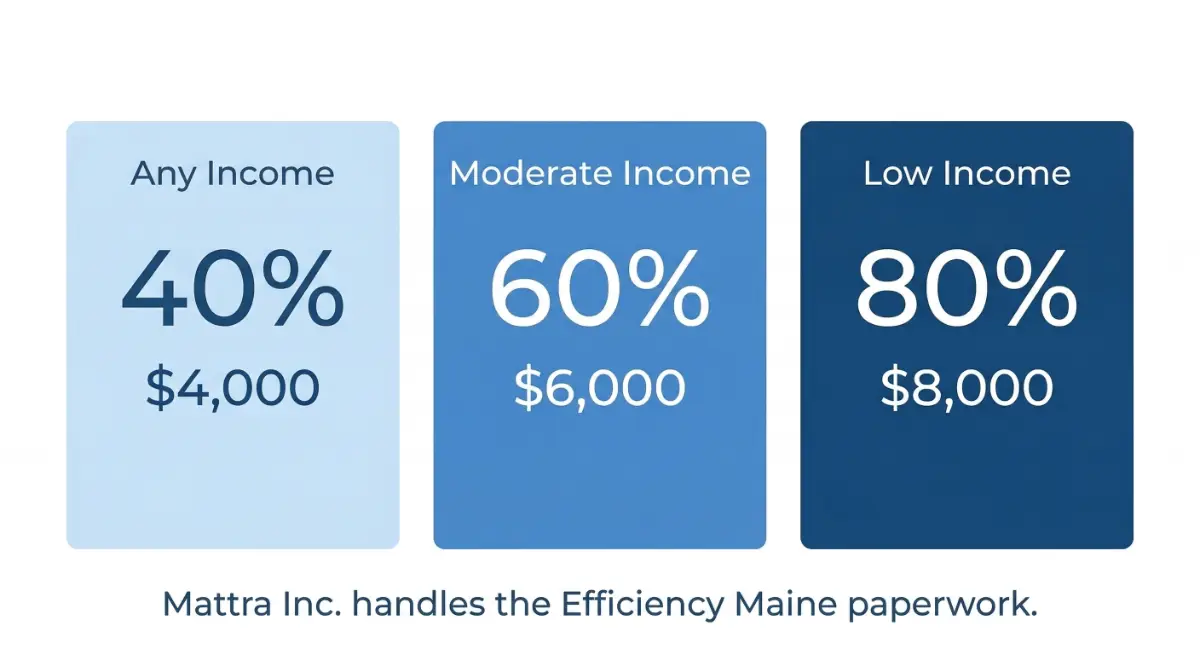
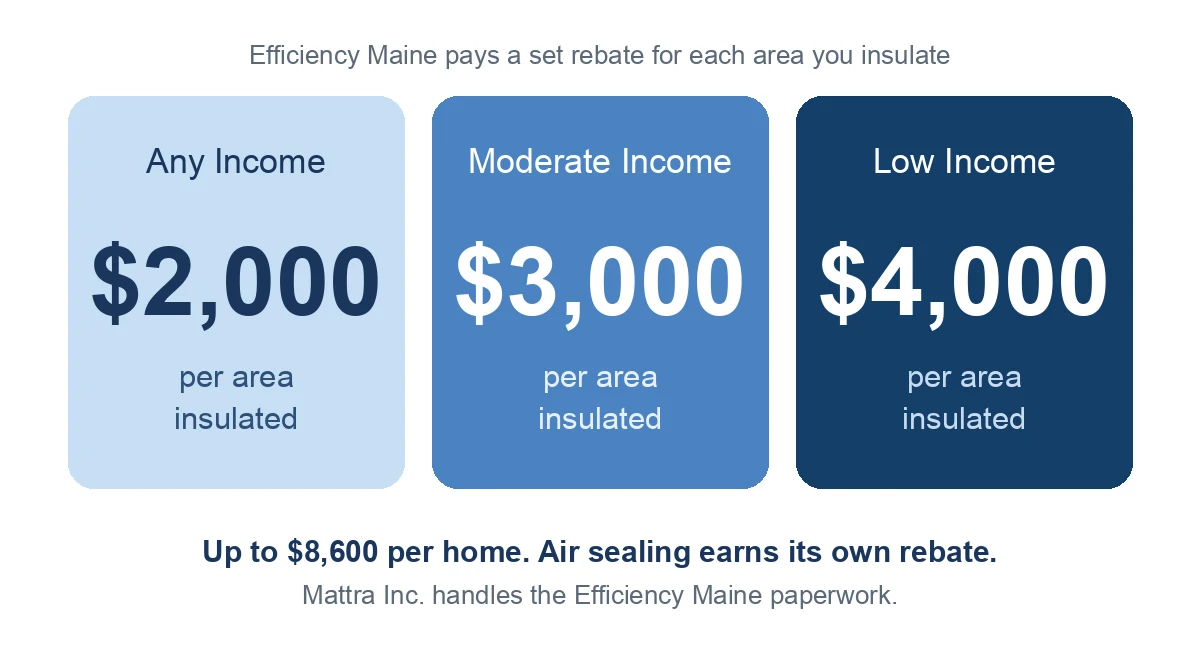
Finish the early rebate promotion: calculators, 5 pages, infographic, guard
The promotion went live with the copy flipped but three things left behind,
so the site contradicted itself in production:

- rebate-rules.js still had SWITCH_DATE = Sept 1, so EVERY calculator was
  computing the old percentage program while the page around it quoted the
  new per-area one. Moved to Aug 27 to match the copy.
- Five pages still carried old-program claims, including the HOMEPAGE
  ('40% to 80% ... caps of $4,000, $6,000, or $8,000') and mold.html.
- The rebate-tiers infographic was baked artwork showing 40/60/80% and
  $4,000/$6,000/$8,000. Regenerated with the per-area amounts.

The promote guard passed all of this because its regex only matched the
literal '40-80%' and never checked the dollar caps. Widened to catch
'40% to 80%', '40%&ndash;80%', '40 to 100%' and cap-context '$8,000',
and to scan every page recursively rather than root + insulation/ only.
$8,000 is matched only in cap context so legitimate project-cost ranges
like 'spend $3,000 to $8,000 before rebates' still pass.

Verified: guard exits 0 on this tree, and fails on all five of the exact
sentences it previously missed.

diff --git a/mold.html b/mold.html
@@ -100,7 +100,7 @@
         "name": "Can Efficiency Maine rebates help pay for the work?",
         "acceptedAnswer": {
           "@type": "Answer",
-          "text": "Mold remediation itself isn't directly rebatable. But when the root cause is insulation or air sealing — which it often is — Efficiency Maine rebates can cover 40% to 80% of that part of the project depending on income, up to $8,000. We're a registered vendor and walk you through what qualifies."
+          "text": "Mold remediation itself isn't directly rebatable. But when the root cause is insulation or air sealing — which it often is — Efficiency Maine pays a set rebate for every area you insulate, $1,000 to $4,000 per area depending on income, and air sealing earns its own rebate on top. We're a registered vendor and walk you through what qualifies."
         }
       }
     ]
@@ -555,7 +555,7 @@ height="0" width="0" style="display:none;visibility:hidden"></iframe></noscript>
         <p>A surprising amount of mold work in Maine isn't really mold work. It's air-sealing work. It's insulation work. It's ventilation work — with mold as the visible symptom that finally got someone's attention.</p>
         <p style="margin-top: 12px;">Warm, moist indoor air is constantly trying to escape into colder spaces — your attic in winter, your wall cavity, your rim joists in the basement. When that air can't escape (bad), or when it escapes and condenses on a cold surface (worse), it creates the exact conditions mold needs to grow. Add Maine's climate, and the cycle is hard to break unless someone fixes the building.</p>
         <p style="margin-top: 12px;">That's why our work often crosses trades. Remediation handles what's already there. Air sealing, insulation, and ventilation correction stop the conditions that grew it.</p>
-        <p style="margin-top: 12px;">When the right next step points toward insulation or air sealing, Efficiency Maine rebates often cover 40% to 80% of the project cost depending on income, up to $8,000. As a registered Efficiency Maine vendor, we walk you through what you'd qualify for — and handle the paperwork. No pitch. Just the math, so you know it before you decide.</p>
+        <p style="margin-top: 12px;">When the right next step points toward insulation or air sealing, Efficiency Maine pays a set rebate for every area you insulate, $1,000 to $4,000 per area depending on income, up to $8,600 in total. As a registered Efficiency Maine vendor, we walk you through what you'd qualify for — and handle the paperwork. No pitch. Just the math, so you know it before you decide.</p>
         <p style="margin-top:20px;font-size:0.9rem;color:var(--text-light);">
           Related: <a href="/insulation/" style="color:var(--green-primary);font-weight:600;">Insulation</a> &middot; <a href="/insulation/air-sealing/" style="color:var(--green-primary);font-weight:600;">Air Sealing</a> &middot; <a href="/insulation/basement/" style="color:var(--green-primary);font-weight:600;">Basement Insulation</a> &middot; <a href="/insulation/crawl-space/" style="color:var(--green-primary);font-weight:600;">Crawl Space</a> &middot; <a href="/other-services/energy-audit/" style="color:var(--green-primary);font-weight:600;">Energy Audit</a>
         </p>
@@ -694,7 +694,7 @@ height="0" width="0" style="display:none;visibility:hidden"></iframe></noscript>
           <span class="faq-icon"><svg width="14" height="14" viewBox="0 0 24 24" fill="none" stroke="var(--green-primary)" stroke-width="2.5"><line x1="12" y1="5" x2="12" y2="19"/><line x1="5" y1="12" x2="19" y2="12"/></svg></span>
         </button>
         <div class="faq-answer">
-          <p>Mold remediation itself isn't directly rebatable. But when the root cause is insulation or air sealing — which it often is — Efficiency Maine rebates can cover 40% to 80% of that part of the project depending on income, up to $8,000. We're a registered vendor and walk you through what qualifies.</p>
+          <p>Mold remediation itself isn't directly rebatable. But when the root cause is insulation or air sealing — which it often is — Efficiency Maine pays a set rebate for every area you insulate, $1,000 to $4,000 per area depending on income, and air sealing earns its own rebate on top. We're a registered vendor and walk you through what qualifies.</p>
         </div>
       </div>
 

diff --git a/consulting.html b/consulting.html
@@ -720,7 +720,7 @@ height="0" width="0" style="display:none;visibility:hidden"></iframe></noscript>
         <h2 style="margin-bottom:16px;">Why Your Problem Probably Connects to Two Other Things</h2>
         <p>A cold room is usually also an air leak. An air leak is usually also a moisture path. A moisture path, given enough time, is usually also a mold story. These things don't show up separately — they show up together, because a house is one connected system under Maine weather.</p>
         <p style="margin-top:16px;">That's why one of the most common outcomes of a consulting conversation isn't 'call this one contractor.' It's 'here's what we're actually seeing — and here's the order the work should happen in so you don't pay twice.'</p>
-        <p style="margin-top:16px;">And when the right next step points toward insulation or air sealing work, Efficiency Maine rebates often cover a significant portion — 40% to 80% of the project cost depending on income, up to $8,000. As a registered Efficiency Maine vendor, we walk you through what you'd actually qualify for. No pitch. Just the math, so you know it before you decide.</p>
+        <p style="margin-top:16px;">And when the right next step points toward insulation or air sealing work, Efficiency Maine pays a set rebate for every area you insulate, $1,000 to $4,000 per area depending on income, up to $8,600 in total. As a registered Efficiency Maine vendor, we walk you through what you'd actually qualify for. No pitch. Just the math, so you know it before you decide.</p>
       </div>
     </div>
   </div>

diff --git a/rebate-rules.js b/rebate-rules.js
@@ -13,10 +13,14 @@
               separate air-sealing rebate. Applies to work COMPLETED
               on or after October 1, 2026.
 
-   The site flips to NEW on SWITCH_DATE (Sept 1, 2026) — one month
-   ahead of the program — because a lead entering the pipeline in
-   September cannot get a job finished before Oct 1, so they will be
-   paid under the new rules.
+   The site flips to NEW on SWITCH_DATE, ahead of the program itself,
+   because a lead entering the pipeline now cannot get a job finished
+   before Oct 1, so they will be paid under the new rules.
+
+   Moved to Aug 27, 2026 when the copy was promoted early. SWITCH_DATE
+   must never lag the copy: if the pages quote the new program while
+   this still says Sept 1, every calculator contradicts the page it
+   sits on.
 
    Override the date in any call (`opts.now`) to test either program.
    ============================================================= */
@@ -25,7 +29,7 @@
   'use strict';
 
   /* When the site starts quoting the new program. */
-  var SWITCH_DATE = new Date('2026-09-01T00:00:00-04:00');
+  var SWITCH_DATE = new Date('2026-08-27T00:00:00-04:00');
 
   /* ── OLD program: percentage of project cost, capped ─────── */
   var OLD_TIERS = {

diff --git a/act-fast-maine-rebates-for-insulation-are-limited-secure-yours-before-july-s-budget.html b/act-fast-maine-rebates-for-insulation-are-limited-secure-yours-before-july-s-budget.html
@@ -236,7 +236,7 @@ height="0" width="0" style="display:none;visibility:hidden"></iframe></noscript>
 
     <h2>Don't Miss Out: Government Rebates May Run Out</h2>
 
-    <p>Are you worried about missing out on a valuable opportunity to save big on your home's insulation? Across Maine, many residents are <a href="/insulation">securing government insulation rebates</a> that cover 40 to 100% of their insulation costs, reducing their energy bills and making their homes more comfortable. Unfortunately, these rebates are limited, and the funds might run out before you get your share. Don't let this opportunity slip away &mdash; act fast!</p>
+    <p>Are you worried about missing out on a valuable opportunity to save big on your home's insulation? Across Maine, many residents are <a href="/insulation">securing government insulation rebates</a> that pay a set amount for each area of the home insulated, reducing their energy bills and making their homes more comfortable. Unfortunately, these rebates are limited, and the funds might run out before you get your share. Don't let this opportunity slip away &mdash; act fast!</p>
 
     <h2>July's Budgetary Meeting: The Clock is Ticking</h2>
 

diff --git a/calculators.html b/calculators.html
@@ -334,7 +334,7 @@ height="0" width="0" style="display:none;visibility:hidden"></iframe></noscript>
   <div class="container">
     <div class="calc-header">
       <h2>Efficiency Maine Rebate Calculator</h2>
-      <p>Find out how much Efficiency Maine will rebate on your insulation project. Select your project areas (attic, wall, rim joist, basement, crawl space, air sealing), enter square footage, and choose your income tier. Shows estimated project cost, rebate amount (40%&ndash;80% depending on income tier, up to $8,000), and estimated out-of-pocket cost in real time.</p>
+      <p>Find out how much Efficiency Maine will rebate on your insulation project. Select your project areas (attic, wall, rim joist, basement, crawl space, air sealing), enter square footage, and choose your income tier. Shows estimated project cost, rebate amount (a set amount per area insulated, $1,000 to $4,000 depending on income tier, up to $8,600 in total), and estimated out-of-pocket cost in real time.</p>
     </div>
     <div class="rebate-calculator"></div>
   </div>

diff --git a/index.html b/index.html
@@ -803,7 +803,7 @@ height="0" width="0" style="display:none;visibility:hidden"></iframe></noscript>
         <span class="section-label">Efficiency Maine Registered Vendor</span>
         <h2>Rebates That Actually Reduce What You Pay</h2>
         <p>Efficiency Maine helps residents upgrade insulation, air sealing, and home performance — and covers a meaningful portion of the bill for most eligible work.</p>
-        <p>Rebates are income-tiered. Most households qualify for 40% to 80% of the project cost, with dollar caps of $4,000, $6,000, or $8,000 depending on income. Funding is limited.</p>
+        <p>Rebates are income-tiered. Efficiency Maine pays a set amount for every area you insulate, $1,000 to $4,000 per area depending on income, up to $8,600 in total. Funding is limited.</p>
         <p>As a registered vendor, we:</p>
         <ul class="check-list">
           <li>Identify which upgrades qualify for your situation</li>
